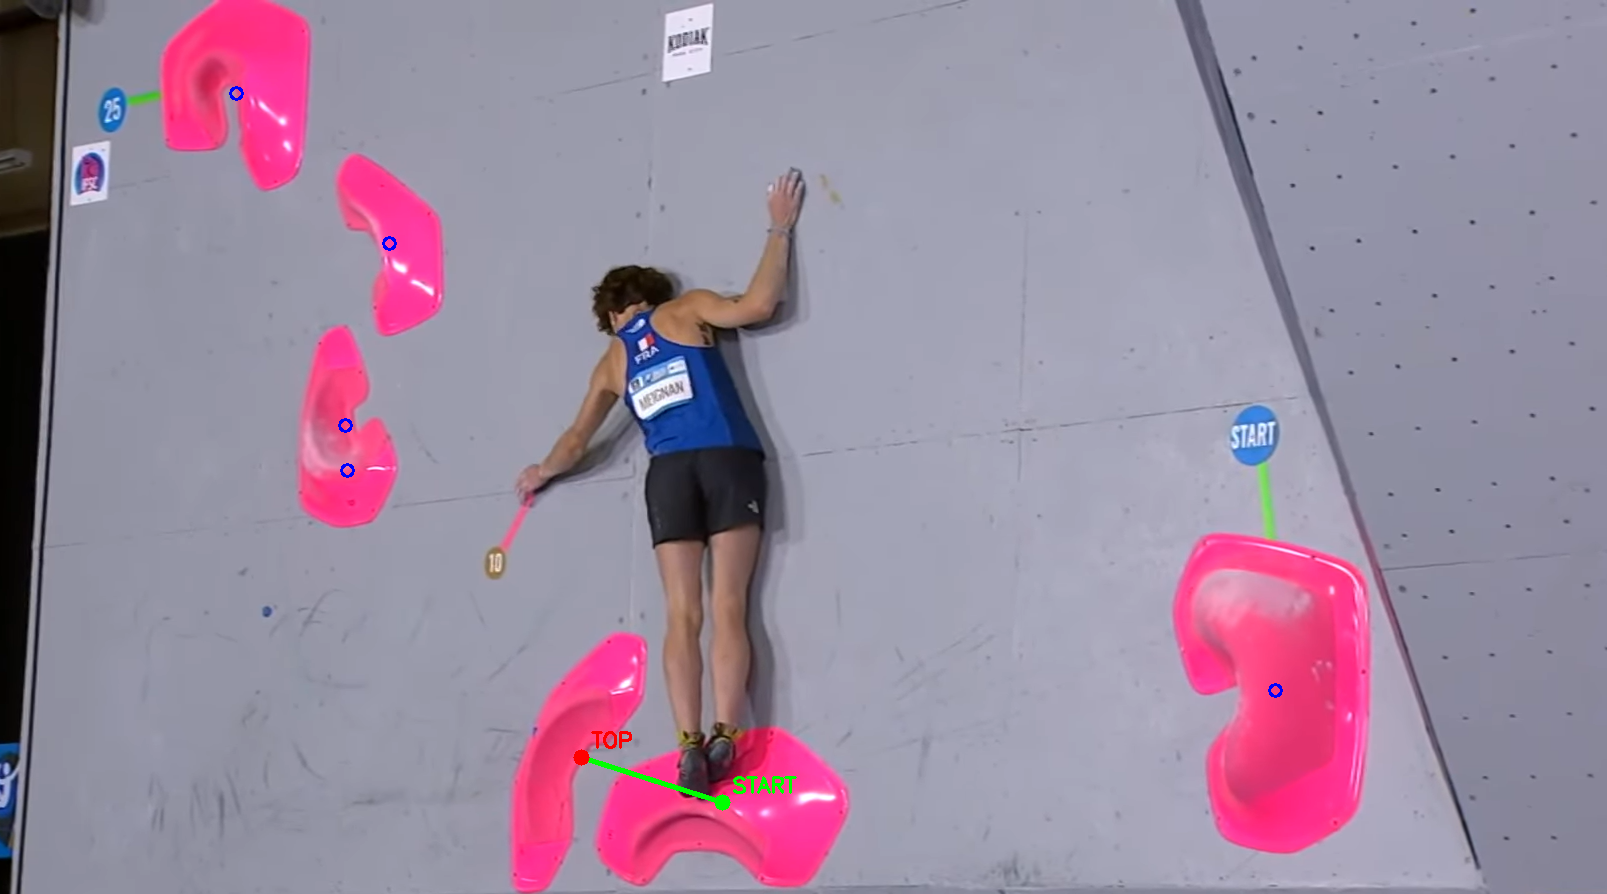
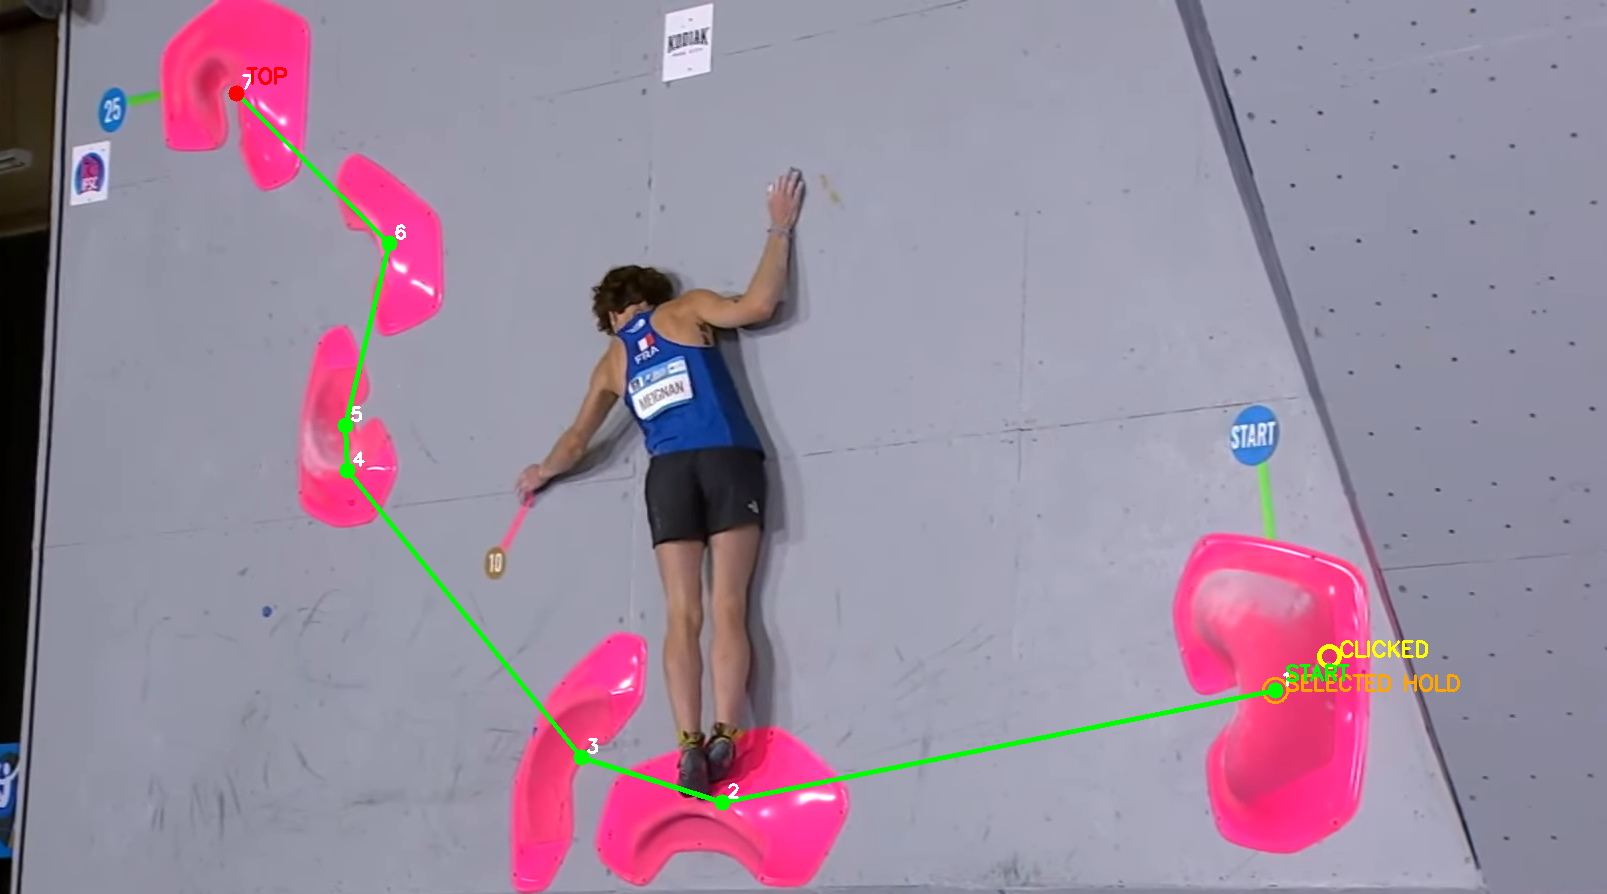
added last codes

diff --git a/climbing_route_prediction.py b/climbing_route_prediction.py
@@ -1,13 +1,12 @@
 from ultralytics import YOLO
 import cv2
 import math
-import numpy as np
 
 # Load YOLOv8 model
 model = YOLO("runs/detect/train2/weights/best.pt")
 
 # Input image path
-img_path = "climbing_route_new.png"
+img_path = "route_examples/climbing_route_new.png"
 
 # Run detection
 results = model(img_path, conf=0.5)
@@ -15,10 +14,17 @@ results = model(img_path, conf=0.5)
 # Load original image
 img = cv2.imread(img_path)
 
+# Check if image was loaded successfully
+if img is None:
+    print(f"Error: Could not load image from {img_path}")
+    exit()
+
 # Extract detection results
 boxes = results[0].boxes.xyxy.cpu().numpy()
 confidences = results[0].boxes.conf.cpu().numpy()
 classes = results[0].boxes.cls.cpu().numpy()
+
+print(f"Detected {len(boxes)} holds")
 
 # Get center points of holds
 holds = []
@@ -33,29 +39,93 @@ def distance(p1, p2):
     return math.hypot(p2[0] - p1[0], p2[1] - p1[1])
 
 # Route prediction
-def find_route(holds, max_reach=150):
+def find_route(holds, max_reach=150, start_hold=None):
     if not holds:
         return []
-    
-    holds_sorted = sorted(holds, key=lambda h: h[1], reverse=True)  # from bottom to top
-    route = [holds_sorted[0]]
-    current = holds_sorted[0]
+
+    if start_hold:
+        current = start_hold
+        route = [start_hold]
+    else:
+        current = holds[0]
+        route = [current]
+
+    used = set()
+    used.add(current)
 
     while True:
         candidates = [
             h for h in holds
-            if h[1] < current[1] and distance(current, h) <= max_reach
+            if h != current and h not in used and distance(current, h) <= max_reach
         ]
         if not candidates:
             break
         next_hold = min(candidates, key=lambda h: distance(current, h))
         route.append(next_hold)
+        used.add(next_hold)
         current = next_hold
 
     return route
 
-# Predict route
-route = find_route(holds, max_reach=150)
+
+# Initialize font variables BEFORE they're used
+font = cv2.FONT_HERSHEY_SIMPLEX
+font_scale = 0.7
+font_thickness = 2
+
+selected_point = []
+
+def click_event(event, x, y, flags, param):
+    if event == cv2.EVENT_LBUTTONDOWN:
+        selected_point.append((x, y))
+        print(f"Selected start point: ({x}, {y})")
+
+# Show image and wait for click
+preview_img = img.copy()
+for hold in holds:
+    cv2.circle(preview_img, (int(hold[0]), int(hold[1])), 6, (255, 0, 0), 2)
+
+cv2.imshow("Click START Hold", preview_img)
+cv2.setMouseCallback("Click START Hold", click_event)
+cv2.waitKey(0)
+cv2.destroyAllWindows()
+
+# -------- Use selected point to define route --------
+if selected_point:
+    start_click = selected_point[0]
+
+    # Show clicked point
+    cv2.circle(img, start_click, 10, (0, 255, 255), 3)
+    cv2.putText(img, "CLICKED", (start_click[0] + 10, start_click[1]), font, font_scale, (0, 255, 255), font_thickness)
+
+    # Find the closest hold to the clicked point
+    distances = [distance(h, start_click) for h in holds]
+    min_dist = min(distances)
+    start_hold_index = distances.index(min_dist)
+    start_hold = holds[start_hold_index]
+
+    print(f"Clicked: {start_click}")
+    print(f"Selected START hold: {start_hold}, distance: {min_dist:.2f}")
+
+    # Mark selected hold
+    cv2.circle(img, (int(start_hold[0]), int(start_hold[1])), 12, (0, 165, 255), 2)
+    cv2.putText(img, "SELECTED HOLD", (int(start_hold[0] + 10), int(start_hold[1])), font, font_scale, (0, 165, 255), font_thickness)
+
+    # Route calculation - Fix the route calculation logic
+    # Create a new holds list starting with the selected hold
+    remaining_holds = [h for h in holds if h != start_hold]
+    # Find route starting from the selected hold
+    print("\nAll detected holds and distances from start:")
+    for h in holds:
+        if h == start_hold:
+            continue
+        print(f"Hold: {h}, y_diff: {start_hold[1] - h[1]:.2f}, distance: {distance(start_hold, h):.2f}")
+
+    route_from_start = find_route(holds, max_reach=800, start_hold=start_hold)
+    route = route_from_start
+
+else:
+    route = find_route(holds, max_reach=600)
 
 # Draw all holds as blue circles
 for hold in holds:
@@ -68,11 +138,16 @@ for i in range(len(route) - 1):
     cv2.line(img, pt1, pt2, (0, 255, 0), 3)
     cv2.circle(img, pt1, 8, (0, 255, 0), -1)
 
-# Mark START and TOP
-font = cv2.FONT_HERSHEY_SIMPLEX
-font_scale = 0.7
-font_thickness = 2
+# Mark the last hold as well
+if route:
+    cv2.circle(img, tuple(map(int, route[-1])), 8, (0, 255, 0), -1)
 
+# Label each hold in the route with its step number
+for i, pt in enumerate(route):
+    cv2.putText(img, str(i + 1), (int(pt[0] + 5), int(pt[1] - 5)), font, 0.6, (255, 255, 255), 2)
+
+
+# Mark START and TOP
 if route:
     start_pt = tuple(map(int, route[0]))
     top_pt = tuple(map(int, route[-1]))
@@ -83,6 +158,12 @@ if route:
     cv2.circle(img, top_pt, 8, (0, 0, 255), -1)    # TOP = Red
     cv2.putText(img, "TOP", (top_pt[0] + 10, top_pt[1] - 10), font, font_scale, (0, 0, 255), font_thickness)
 
+# Display the result
+cv2.imshow("Predicted Route", img)
+cv2.waitKey(0)
+cv2.destroyAllWindows()
+
 # Save result
 cv2.imwrite("predicted_route_labeled.png", img)
 print("Labeled route saved as 'predicted_route_labeled.png'")
+print(f"Route found with {len(route)} holds")

diff --git a/holds_with_colors_detection.py b/holds_with_colors_detection.py
@@ -8,7 +8,7 @@ import random
 model = YOLO("runs/detect/train2/weights/best.pt")  # or your custom-trained weights
 
 # --- Load image ---
-img_path = "route1.jpg"
+img_path = "route_examples/route1.jpg"
 image = cv2.imread(img_path)
 img_rgb = cv2.cvtColor(image, cv2.COLOR_BGR2RGB)
 

diff --git a/only_holds_detection.py b/only_holds_detection.py
@@ -1,0 +1,5 @@
+from ultralytics import YOLO
+
+model = YOLO("runs/detect/train2/weights/best.pt")
+
+results = model("route_examples/climbing_route_new.png", save=True, conf=0.5) # Change the confidence threshold as needed
